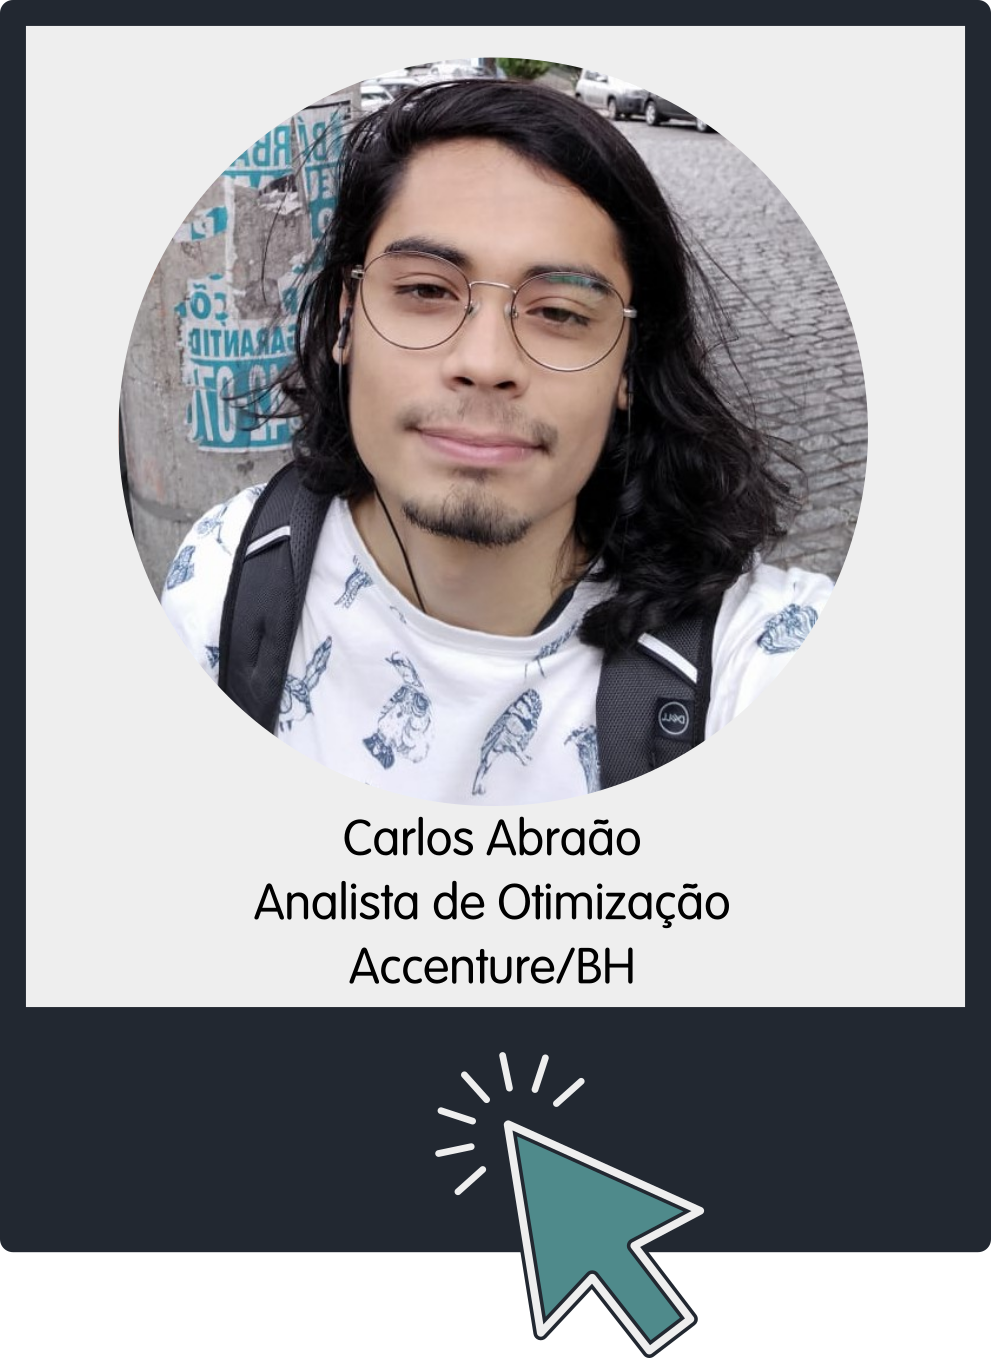
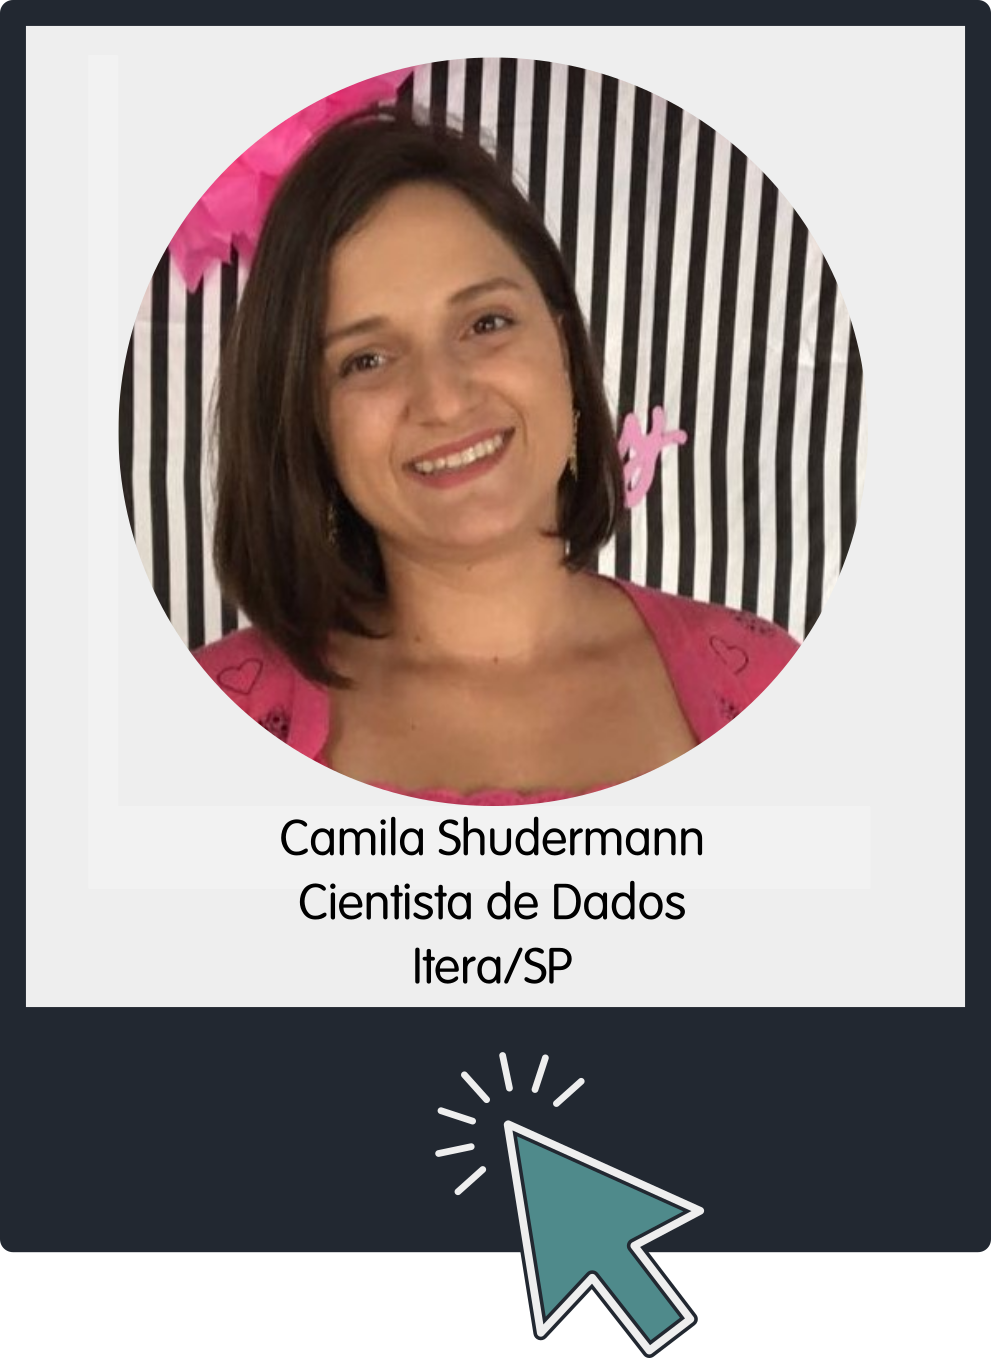
pré-edição 3

diff --git a/index.html b/index.html
@@ -59,8 +59,8 @@
           <div class="col-md-7">
             <img src="img/completo.png" class="logo">
             <h2>Experiências Profissionais na área de Ciência da Computação</h1>
-            <h3>2ª Edição: O Caminho Correto Nem Sempre é Fácil Encontrar</h3>
-            <h4>27<!--sup>th</sup--> de Agosto, 2020 às 19h</h4>
+            <h3>3ª Edição</h3>
+            <h4>15<!--sup>th</sup--> de Setembro, 2020</h4>
             <a target="_blank" href="" disabled class="btn btn-lg btn-red" >INSCREVA-SE EM BREVE <span class="ti-arrow-right"></span></a>
 
           </div>
@@ -120,6 +120,16 @@
               
               <li><a target="_blank" href="https://www.linkedin.com/in/c-abraao/"><span class="ti-linkedin"></span></a></li>
               <li><a href="https://www.youtube.com/watch?v=Y6mGO3pwloE" target="_blank"><span class="ti-youtube"></span></a></li>
+            </ul>
+          </div>
+
+          <div class="col-md-4 col-sm-6 feature">
+            <img src="img/speaker-camila.png" class="speaker-img">
+            <h3>Camila Sundermann</h3>
+            <p>Graduada em Sistemas de Informação, mestre e doutora na área de Mineração de Textos e Sistemas de Recomendação (ICMC/USP), atualmente trabalha como cientista de dados na <a href="https://itera.com.br/" target="_blank">Itera</a>, uma startup de tecnologia que desenvolve
+              diversas soluções de Inteligência Artificial em São Carlos (SP).</p>
+              <ul class="speaker-social">
+              <li><a target="_blank" href="https://www.linkedin.com/in/camila-vaccari-sundermann-56482623/"><span class="ti-linkedin"></span></a></li>
             </ul>
           </div>
 
